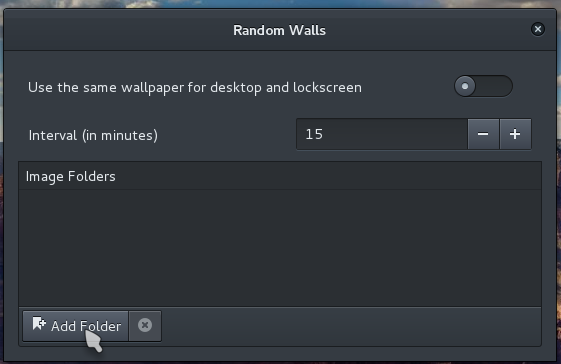
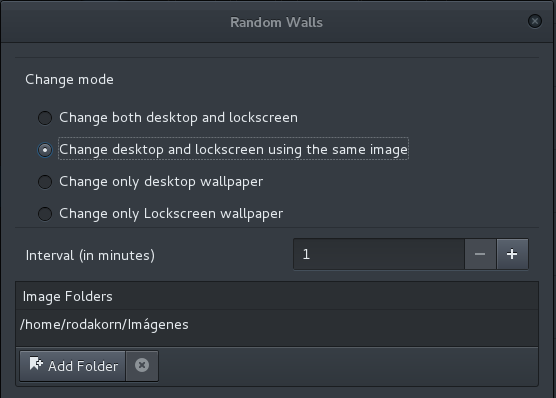
Added new features to the readme

Changed region(s): [[0.0, 0.0, 1.0, 1.0], [0.8255, 0.3022, 0.9478, 0.3929], [0.795, 0.1813, 0.8867, 0.272]]

diff --git a/README.md b/README.md
@@ -9,7 +9,7 @@ Features
 --------
 
 * Set the interval you want your backgrounds changed
-* Define if you want to use the same background for desktop and lockscreen
+* Define what you want to change: desktop, lockscreen, both using different images or both using the same image.
 * Backgrounds can be changed at any time using the "play" and "shuffle" buttons
 * You can select any image you want for your desktop or lockscreen, to be used now or in the next change.
 * Available in English or Spanish
@@ -29,7 +29,7 @@ When you have added some folders, if you click on the camera icon in the status 
 
 ![](https://github.com/rodakorn/randwall/blob/master/_screenshots/3.png)
 
-You can define if you want to use the same background on the desktop and lock screen in the settings dialog.
+You can define what you want to change: desktop only, lockscreen only, desktop and lockscreen using different images or both using the same image.
 
 ![](https://github.com/rodakorn/randwall/blob/master/_screenshots/4.png)
 
